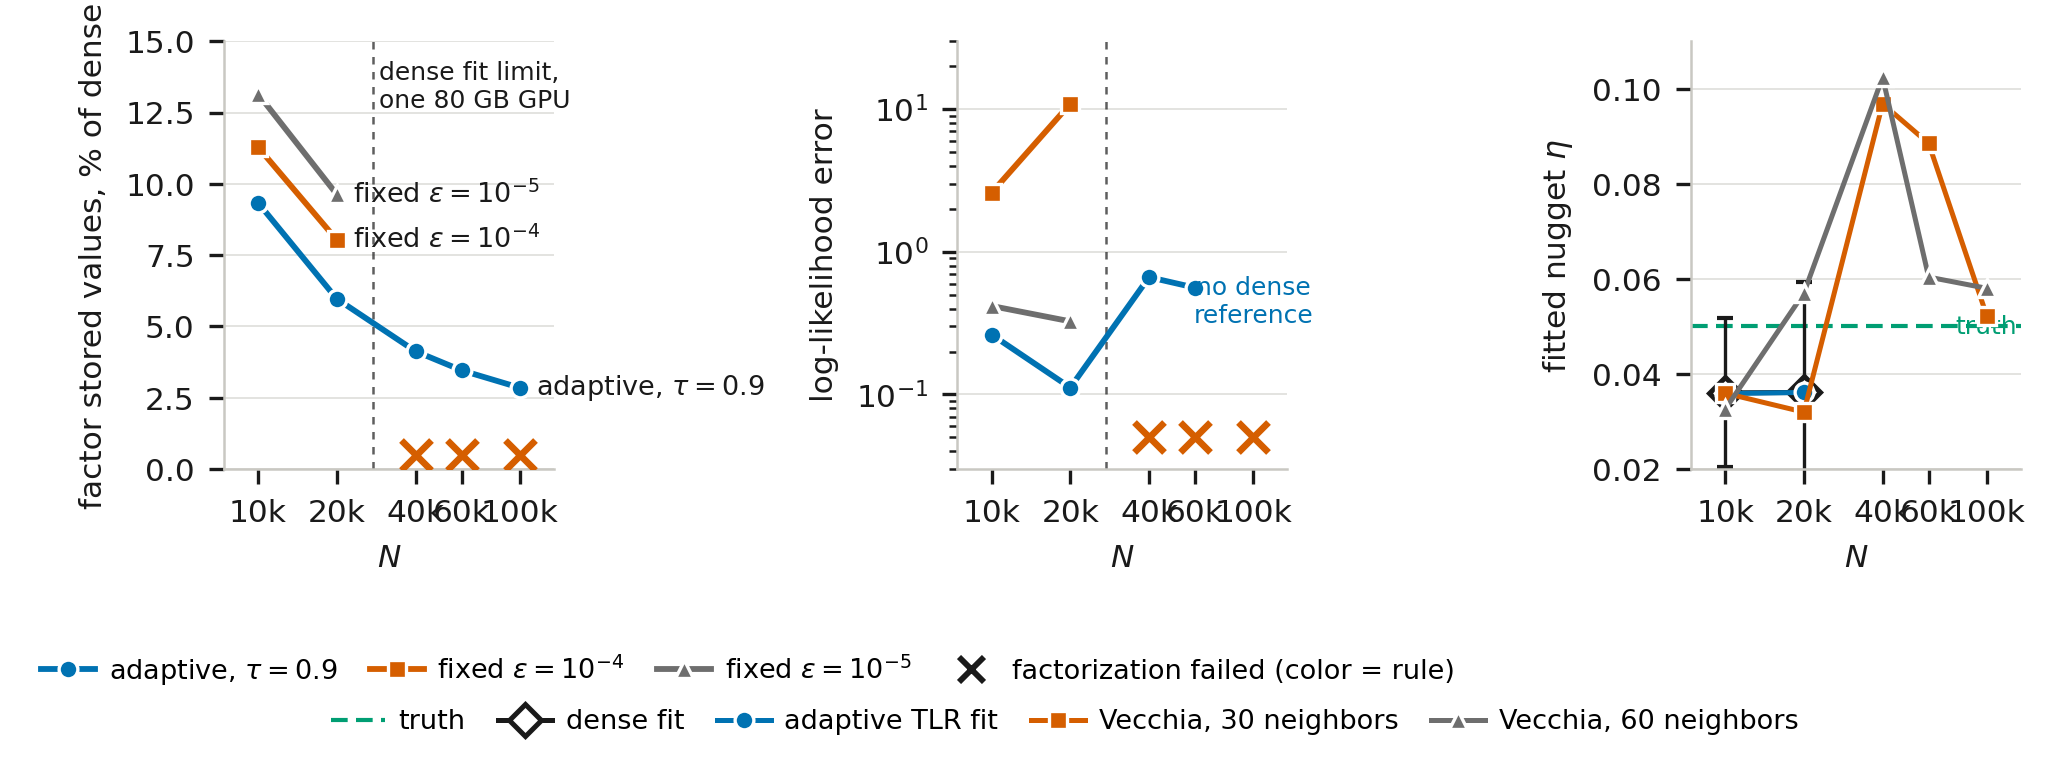
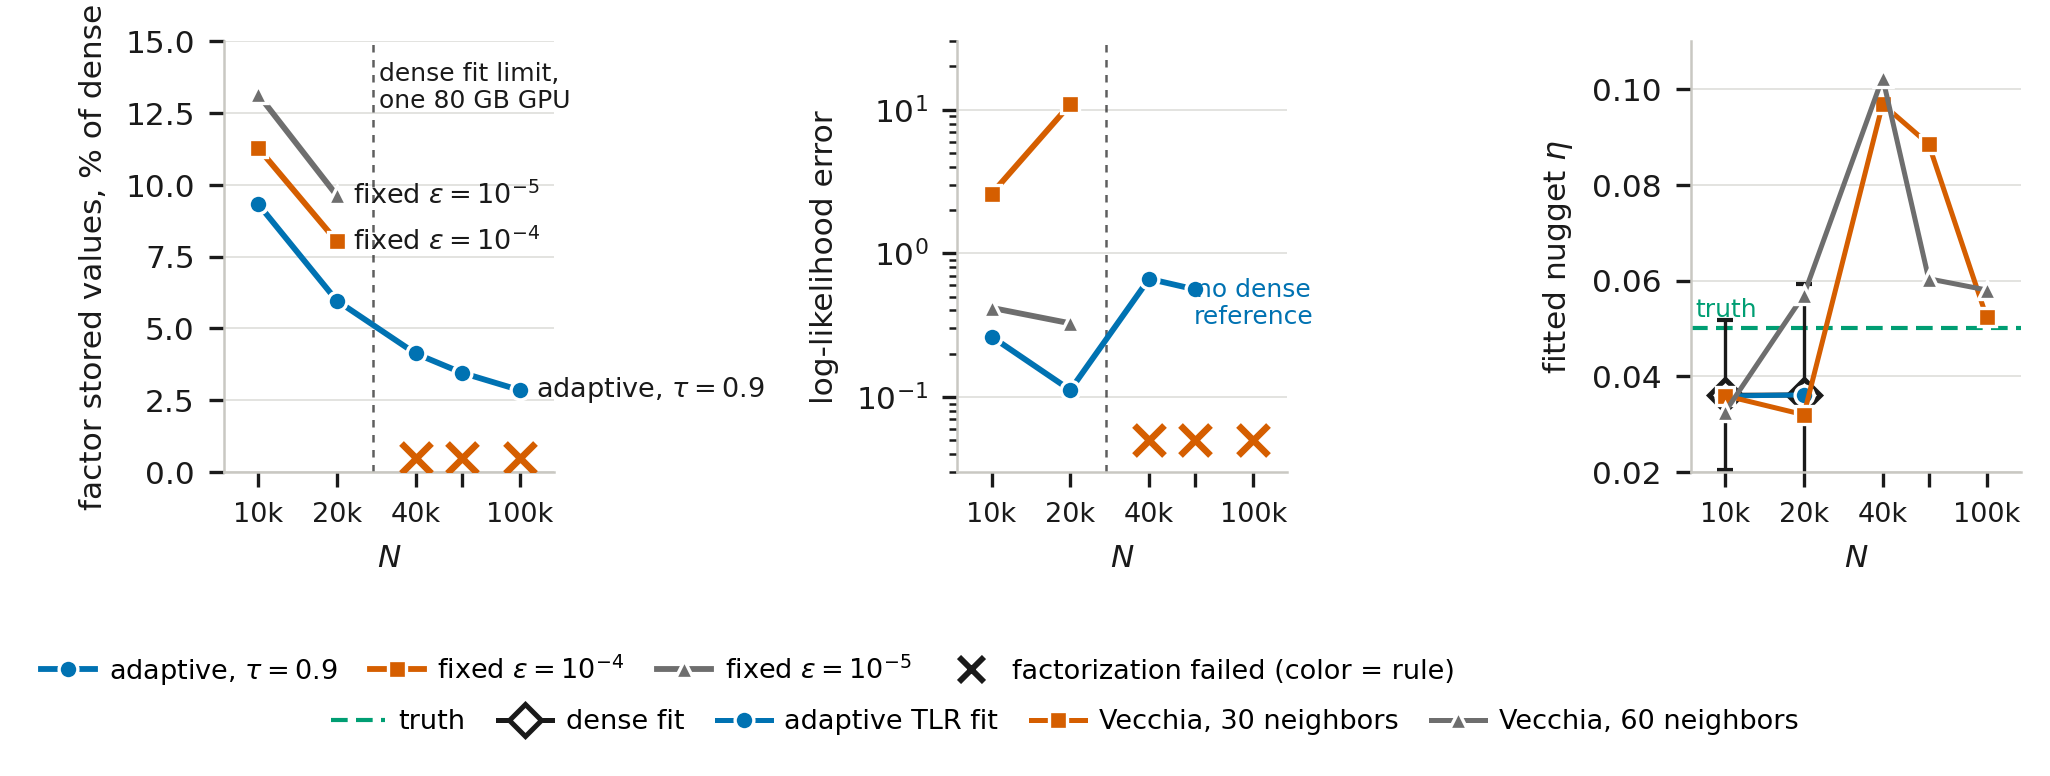
Results figure: tick labels and truth label

diff --git a/codes/20_pilot_results_figure.py b/codes/20_pilot_results_figure.py
@@ -51,7 +51,7 @@ plt.rcParams.update({"font.family": "DejaVu Sans", "font.size": 7.5, "axes.edgec
                      "xtick.color": INK, "ytick.color": INK, "axes.labelcolor": INK})
 fig, (a1, a2, a3) = plt.subplots(1, 3, figsize=(6.6, 2.3))
 for ax in (a1, a2, a3):
-    ax.set_xscale("log"); ax.set_xticks(Ns); ax.set_xticklabels([f"{n//1000}k" for n in Ns])
+    ax.set_xscale("log"); ax.set_xticks(Ns); ax.set_xticklabels([("" if n == 60000 else f"{n//1000}k") for n in Ns], fontsize=6.5)
     ax.minorticks_off(); ax.grid(axis="y", color=RULE, lw=0.4, alpha=0.6); ax.set_axisbelow(True)
     ax.spines[["top", "right"]].set_visible(False); ax.set_xlabel("$N$"); ax.set_xlim(Ns[0] / 1.35, Ns[-1] * 1.35)
 a1.set_ylabel("factor stored values, % of dense")
@@ -88,7 +88,7 @@ handles = [Line2D([], [], color=col, marker=mk, ms=4.5, mec="white", mew=0.8, lw
 handles.append(Line2D([], [], color=INK, marker="x", ms=6, mew=1.4, ls="none", label="factorization failed (color = rule)"))
 # third panel: the fitted nugget, head to head
 a3.axhline(0.05, color=GREEN, lw=1.0, ls=(0, (4, 2)), zorder=1)
-a3.text(Ns[-1] * 1.3, 0.05, "truth", color=GREEN, fontsize=6, va="center", ha="right")
+a3.text(Ns[0] / 1.3, 0.0515, "truth", color=GREEN, fontsize=6, va="bottom", ha="left")
 h3 = [Line2D([], [], color=GREEN, lw=1.0, ls=(0, (4, 2)), label="truth")]
 for key, label, col, mk in EST_SERIES:
     xs = [n for n in Ns if (key, n) in est]; ys = [est[(key, n)][2] for n in xs]
